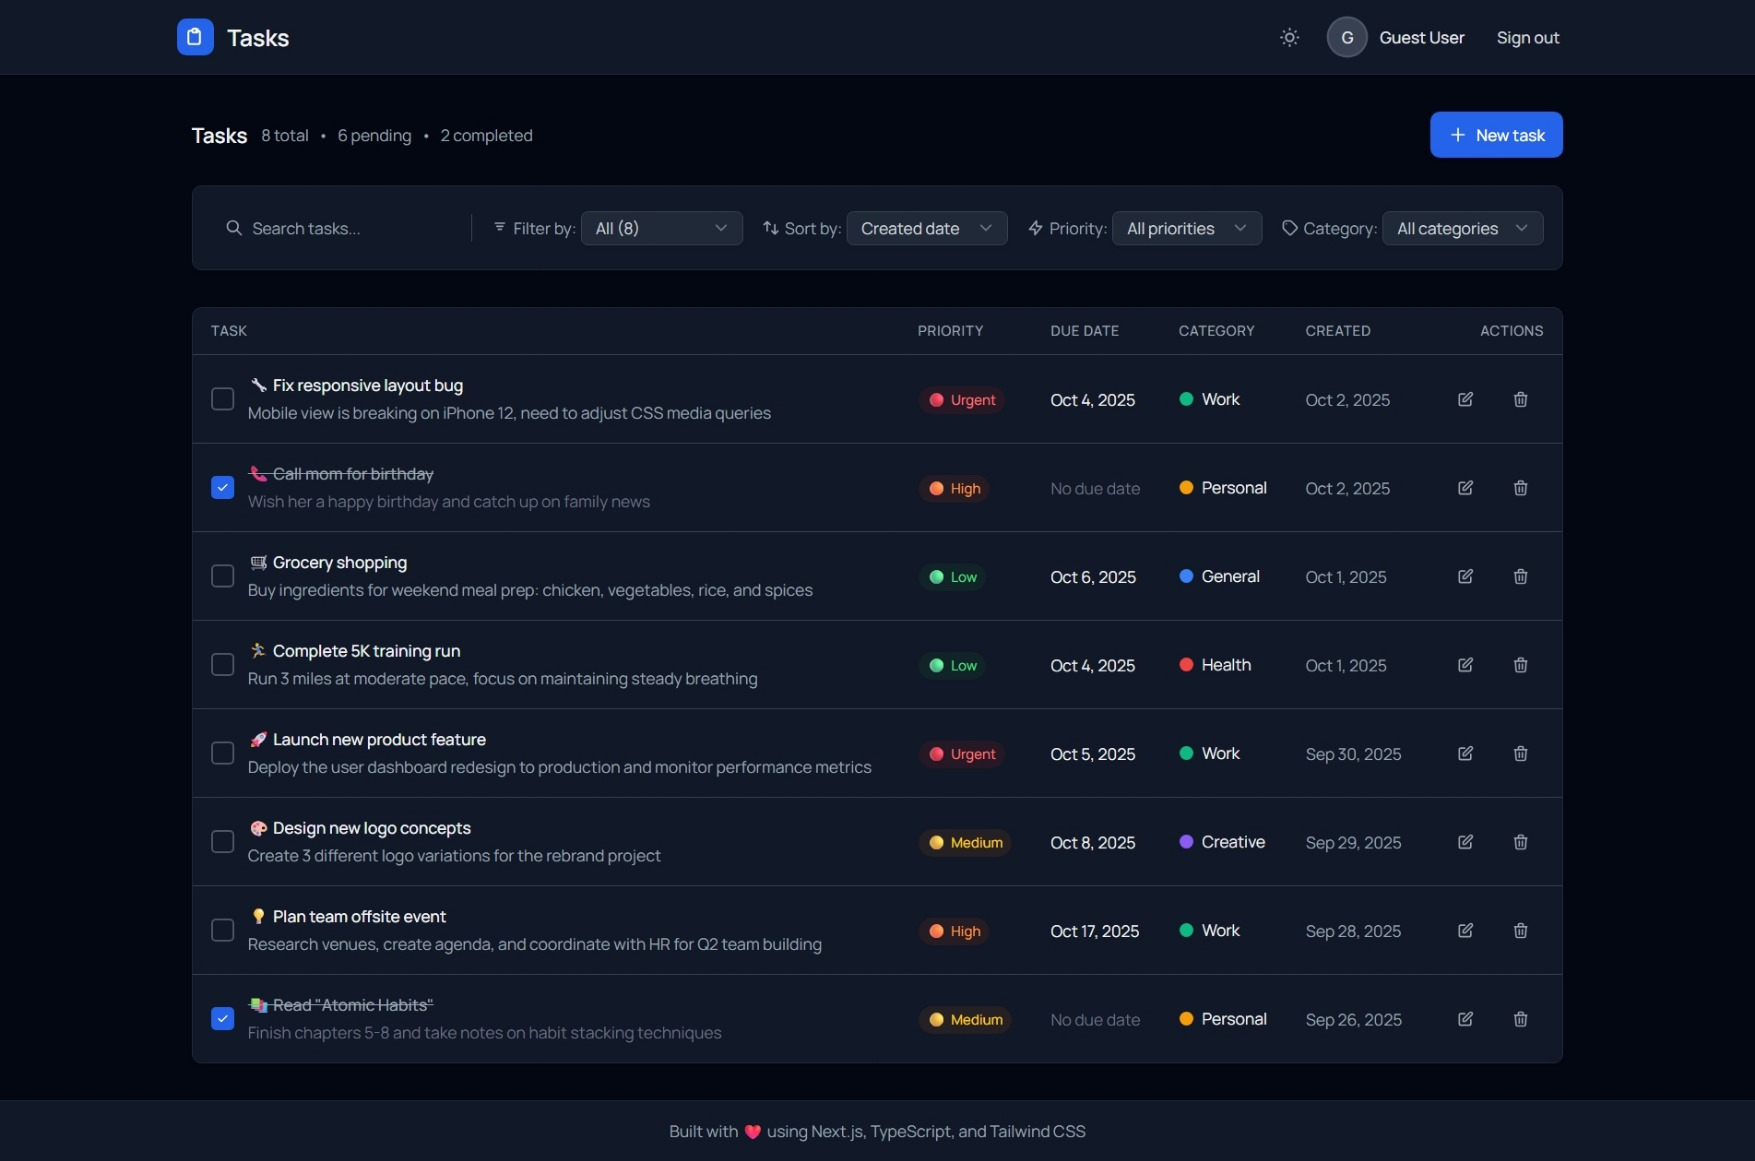
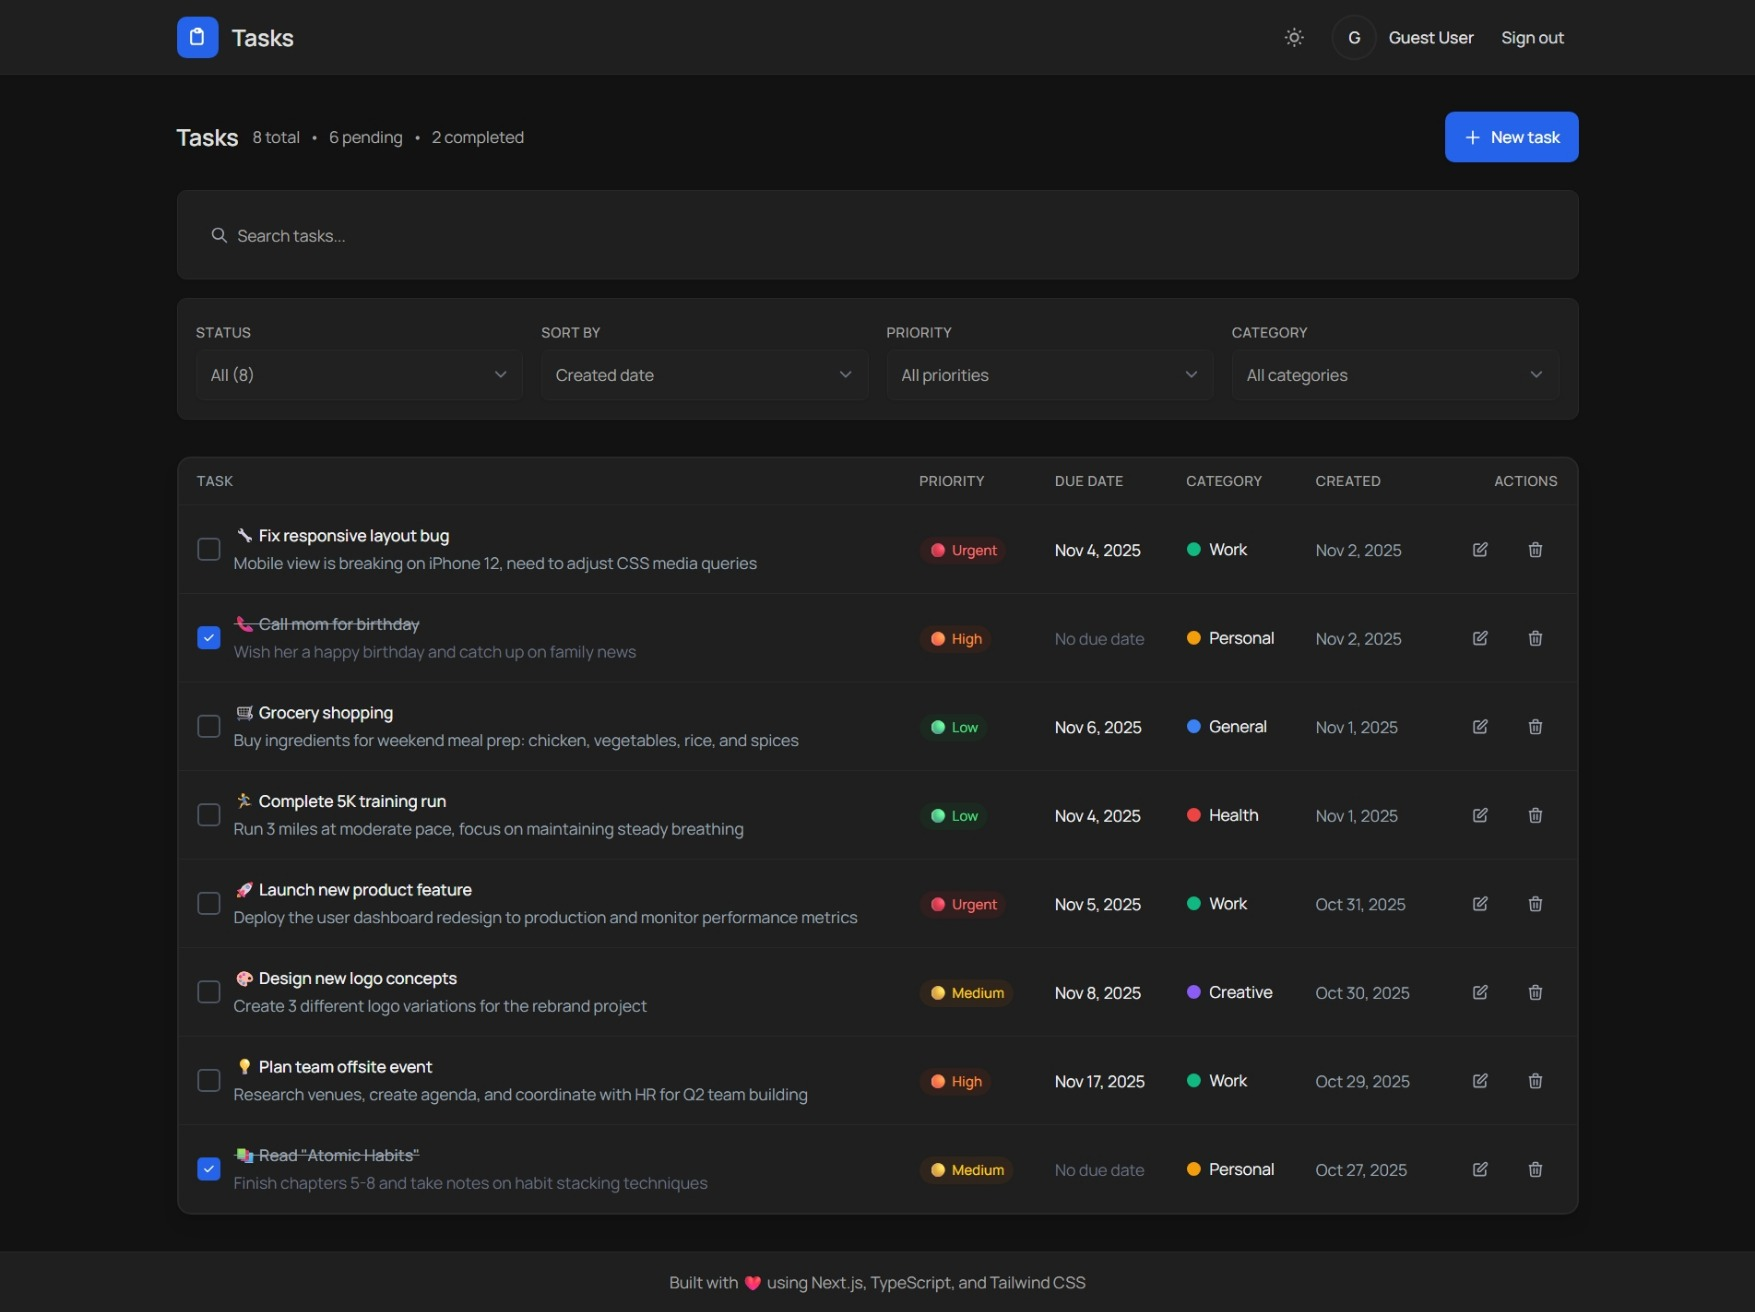
Fix edit todo functionality and styling.

diff --git a/src/components/EditTodoModal.tsx b/src/components/EditTodoModal.tsx
@@ -83,21 +83,28 @@ export const EditTodoModal: React.FC<EditTodoModalProps> = ({ isOpen, todo, cate
       size="md"
     >
       <form onSubmit={handleSubmit(onSubmit)} className="space-y-4" data-testid="edit-todo-form">
-        <Input
-          label="Title"
-          {...register('title')}
-          error={errors.title?.message}
-          placeholder="Update todo title"
-        />
+        <div>
+          <label className="block text-sm font-medium text-black mb-1">
+            Title
+          </label>
+          <input
+            {...register('title')}
+            className="w-full rounded-md border border-gray-300 bg-white text-black px-3 py-2 text-sm placeholder:text-gray-500 focus:outline-none focus:ring-2 focus:ring-primary-500 focus:border-transparent"
+            placeholder="Update todo title"
+          />
+          {errors.title && (
+            <p className="mt-1 text-sm text-red-600">{errors.title.message}</p>
+          )}
+        </div>
 
         <div>
-          <label className="block text-sm font-medium text-secondary-700 mb-1">
+          <label className="block text-sm font-medium text-black mb-1">
             Description
           </label>
           <textarea
             {...register('description')}
             rows={3}
-            className="w-full rounded-md border border-secondary-300 px-3 py-2 text-sm placeholder:text-secondary-400 focus:outline-none focus:ring-2 focus:ring-primary-500 focus:border-transparent"
+            className="w-full rounded-md border border-gray-300 bg-white text-black px-3 py-2 text-sm placeholder:text-gray-500 focus:outline-none focus:ring-2 focus:ring-primary-500 focus:border-transparent"
             placeholder="Update description (optional)"
           />
           {errors.description && (
@@ -106,16 +113,16 @@ export const EditTodoModal: React.FC<EditTodoModalProps> = ({ isOpen, todo, cate
         </div>
 
         <div>
-          <label className="block text-sm font-medium text-secondary-700 mb-1">
+          <label className="block text-sm font-medium text-black mb-1">
             Priority
           </label>
           <select
             {...register('priority')}
-            className="w-full bg-white dark:bg-[hsl(var(--secondary))] border border-gray-200 dark:border-[hsl(var(--border))] rounded-md px-3 py-2 text-sm text-gray-700 dark:text-[hsl(var(--muted-foreground))] focus:ring-2 focus:ring-primary-500 focus:border-transparent cursor-pointer shadow-sm"
+            className="w-full bg-white border border-gray-300 rounded-md px-3 py-2 text-sm text-black focus:outline-none focus:ring-2 focus:ring-primary-500 focus:border-transparent cursor-pointer"
           >
             {priorityOptions.map((option) => (
-              <option key={option.value} value={option.value} className="bg-white dark:bg-[hsl(var(--secondary))] text-gray-900 dark:text-[hsl(var(--foreground))]">
-                {option.label}
+              <option key={option.value} value={option.value} className="bg-white text-black">
+                {option.icon} {option.label}
               </option>
             ))}
           </select>
@@ -125,15 +132,15 @@ export const EditTodoModal: React.FC<EditTodoModalProps> = ({ isOpen, todo, cate
         </div>
 
         <div>
-          <label className="block text-sm font-medium text-secondary-700 mb-1">
+          <label className="block text-sm font-medium text-black mb-1">
             Category
           </label>
           <select
             {...register('categoryId')}
-            className="w-full bg-white dark:bg-[hsl(var(--secondary))] border border-gray-200 dark:border-[hsl(var(--border))] rounded-md px-3 py-2 text-sm text-gray-700 dark:text-[hsl(var(--muted-foreground))] focus:ring-2 focus:ring-primary-500 focus:border-transparent cursor-pointer shadow-sm"
+            className="w-full bg-white border border-gray-300 rounded-md px-3 py-2 text-sm text-black focus:outline-none focus:ring-2 focus:ring-primary-500 focus:border-transparent cursor-pointer"
           >
             {categories.map((category) => (
-              <option key={category.id} value={category.id} className="bg-white dark:bg-[hsl(var(--secondary))] text-gray-900 dark:text-[hsl(var(--foreground))]">
+              <option key={category.id} value={category.id} className="bg-white text-black">
                 {category.name}
               </option>
             ))}
@@ -143,12 +150,19 @@ export const EditTodoModal: React.FC<EditTodoModalProps> = ({ isOpen, todo, cate
           )}
         </div>
 
-        <Input
-          label="Due Date"
-          type="date"
-          {...register('dueDate')}
-          error={errors.dueDate?.message}
-        />
+        <div>
+          <label className="block text-sm font-medium text-black mb-1">
+            Due Date
+          </label>
+          <input
+            type="date"
+            {...register('dueDate')}
+            className="w-full rounded-md border border-gray-300 bg-white text-black px-3 py-2 text-sm focus:outline-none focus:ring-2 focus:ring-primary-500 focus:border-transparent"
+          />
+          {errors.dueDate && (
+            <p className="mt-1 text-sm text-red-600">{errors.dueDate.message}</p>
+          )}
+        </div>
 
         <div className="flex justify-end space-x-3 pt-4">
           <Button

diff --git a/src/components/TodoTable.tsx b/src/components/TodoTable.tsx
@@ -31,6 +31,7 @@ export const TodoTable = React.memo<TodoTableProps>(({
   onUpdate,
   onDelete,
   onReorder,
+  onEditRequest,
 }) => {
   const formatDate = (date: string | Date) => {
     return new Date(date).toLocaleDateString('en-US', {
@@ -183,7 +184,7 @@ export const TodoTable = React.memo<TodoTableProps>(({
                       variant="ghost"
                       size="sm"
                       onClick={() => onEditRequest ? onEditRequest(todo) : onUpdate(todo.id, { title: todo.title, description: todo.description })}
-                      className="text-gray-400 hover:text-gray-600 dark:hover:text-gray-300"
+                      className="text-gray-400 hover:text-gray-600 dark:hover:text-gray-900"
                       aria-label="Edit task"
                     >
                       <svg className="w-4 h-4" fill="none" stroke="currentColor" viewBox="0 0 24 24">
@@ -253,7 +254,7 @@ export const TodoTable = React.memo<TodoTableProps>(({
                     variant="ghost"
                     size="sm"
                     onClick={() => onEditRequest ? onEditRequest(todo) : onUpdate(todo.id, { title: todo.title, description: todo.description })}
-                    className="text-gray-400 hover:text-gray-600 dark:hover:text-gray-300 touch-target-sm p-1"
+                    className="text-gray-400 hover:text-gray-600 dark:hover:text-gray-900 touch-target-sm p-1"
                     aria-label="Edit task"
                   >
                     <svg className="w-4 h-4" fill="none" stroke="currentColor" viewBox="0 0 24 24">
